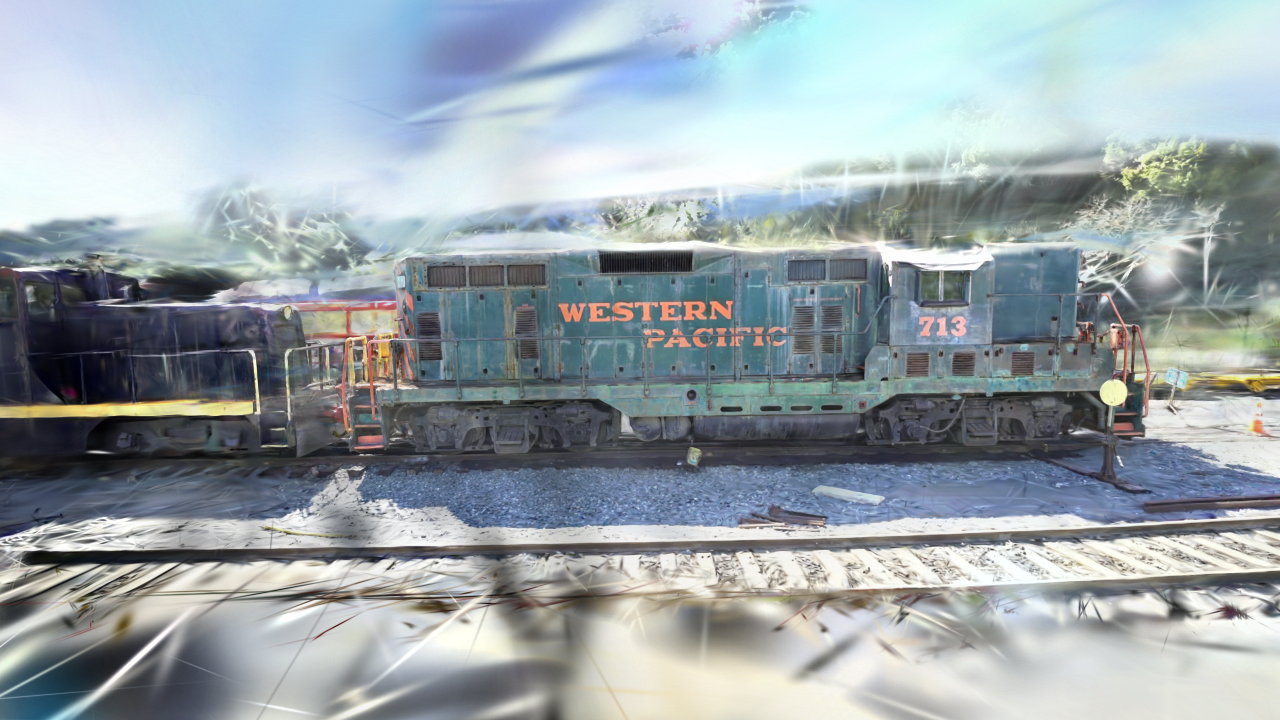
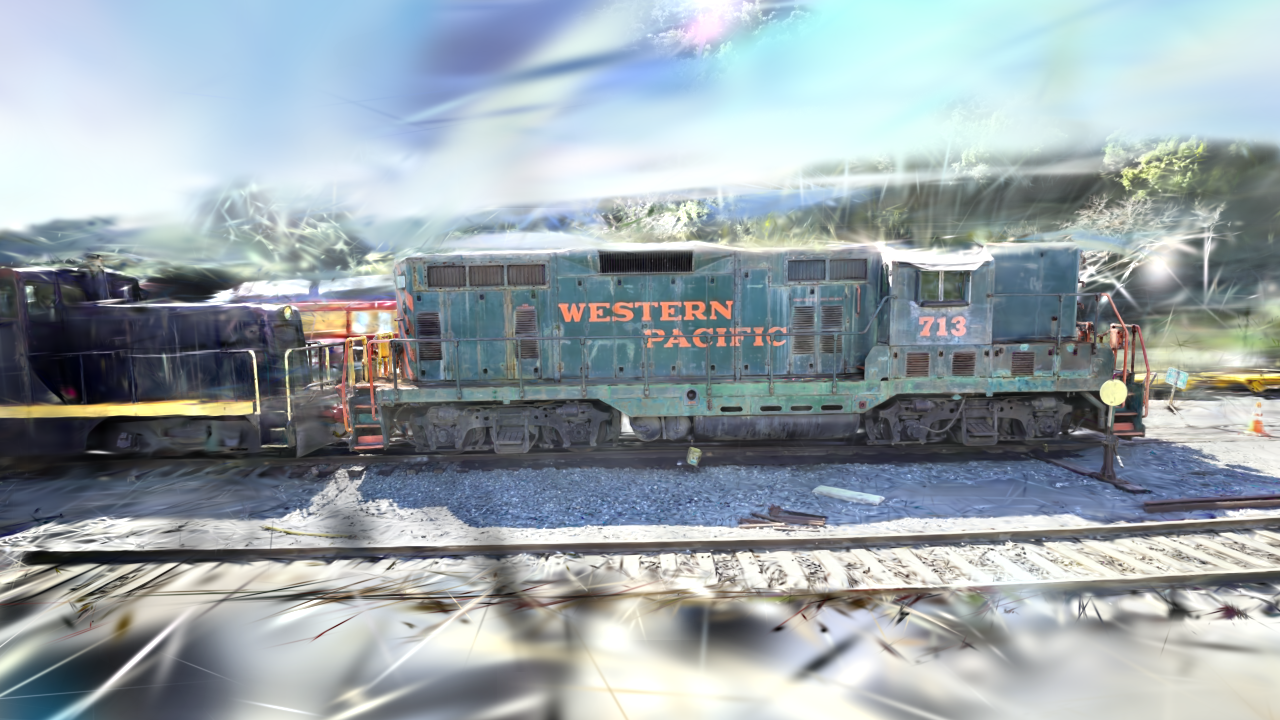
Record what tile binning measured and close M4's list

diff --git a/README.md b/README.md
@@ -153,9 +153,10 @@ on disk, 581.6 MiB of GPU attributes and 96.9 MiB of sort scratch across both fr
   larger scene introduced. Both the parity figure and the frame times have to be read with that in
   mind, and both are given below with and without a clamp applied as a probe.
 
-Current limits: one draw call per cloud with no visibility culling or tiled binning, and 240 bytes
+Current limits: 240 bytes
 of attributes per splat (degree-3 SH is 192 of them), which is 240 MB for a million-splat scene --
-of which the sort reads only the 12 bytes of position. The sort itself adds 39.2 MiB of scratch at
+of which the sort reads only the 12 bytes of position. Tile binning adds four more arrays over the
+(tile, splat) pairs, 8 per splat, which is another 264 MiB at 1.03M splats across both frames. The sort itself adds 39.2 MiB of scratch at
 1.03M splats and 96.9 MiB at `truck`'s 2.54M, across both frames in flight. Both are linear in the
 splat count, so the 6.13M-splat `bicycle` scene would want about 1.4 GiB of attributes and 233 MiB
 of scratch.
@@ -250,6 +251,8 @@ measured frames:
 | INRIA `train`, 1.03M splats, GPU sort | 1920x1080 | Vulkan | 18.707 ms | 18.677 ms |
 | INRIA `train`, 1.03M splats, + cull pass | 1920x1080 | D3D12 | 14.866 ms | 14.846 ms |
 | INRIA `train`, 1.03M splats, + cull pass | 1920x1080 | Vulkan | 12.172 ms | 12.041 ms |
+| INRIA `train`, 1.03M splats, + tile raster | 1920x1080 | D3D12 | 9.920 ms | 9.900 ms |
+| INRIA `train`, 1.03M splats, + tile raster | 1920x1080 | Vulkan | 10.435 ms | 10.408 ms |
 | INRIA `truck`, 2.54M splats, GPU sort | 1920x1080 | D3D12 | 14.718 ms | 14.698 ms |
 | INRIA `truck`, 2.54M splats, GPU sort | 1920x1080 | Vulkan | 14.045 ms | 14.018 ms |
 
@@ -334,9 +337,31 @@ which is within run-to-run noise, and the pinned WARP draws nothing at all throu
 — reproduced with the argument buffer filled by the CPU, so it is not the compute write. Paying a
 CI blind spot for no measured gain was not worth it.
 
-What is left in the frame is still the draw. Every number here is one undivided draw call with no
-tiled binning, and the fact that fill, not splat count, sets the frame is the argument for doing
-it.
+**What the tile rasteriser changed.** A back-to-front blend cannot stop early: the quad pass had to
+blend every splat covering a pixel, however opaque the pixel had already become. The splats are now
+binned into 16x16 tiles and one compute group owns a tile, walking it from the nearest splat
+outwards and stopping once the transmittance can no longer change the pixel. On `train` at 1080p
+that is 14.846 ms to 9.900 on D3D12 and 12.041 to 10.408 on Vulkan — and 22.455 to 9.900 against
+the version before either change.
+
+The binning avoids a second sort key. Pairs are generated by walking the splats in depth order, so
+they start out sorted by depth, and the tile sort is the same stable radix sort over the tile id
+alone, which leaves each tile's slice in depth order. Two passes cover a 16-bit tile id. The
+rasteriser walks a slice backwards to composite near to far.
+
+Capacity for the pairs is fixed when a cloud is uploaded, at eight per splat. The frame reads the
+scan's grand total back and reports a view that needed more instead of dropping splats silently:
+`train` at 1080p peaks at 4.55 million pairs against the 8.2 million it holds. Raising the capacity
+to sixteen produces a byte-identical image and costs 2.7 ms, which is what fixes it at eight.
+
+This is also where the stored WARP reference moved. The quad pass blended into the 8-bit render
+target once per splat, so hundreds of overlapping splats accumulated hundreds of roundings; the
+rasteriser accumulates in floating point and writes once. The reference was retaken, and the change
+it records is 2787 of 230400 pixels moving by at most 9 levels. Cross-backend agreement improved at
+the same time, from max channel delta 2 over 0.49% of pixels to delta 1 over 0.046%.
+
+What is left is the shape of the work rather than its amount: the rasteriser is one kernel with no
+per-pass timing, so which of binning, sorting or shading now dominates is still not separated.
 
 A real profiler is still outstanding.
 

diff --git a/docs/ROADMAP.md b/docs/ROADMAP.md
@@ -79,9 +79,9 @@ back to front, a GPU depth sort, a procedural cloud for development and tests, a
 buffer with the mesh pass, both backends drawing it from the same shaders, `.ply` dataset loading,
 and degree-3 spherical-harmonic colour evaluated per splat from the view direction.
 
-Remaining: visibility culling and tile-based binning. Both are deliberately last: they cannot be
-honestly measured against 20k procedural splats, and need the million-splat workload a real dataset
-provides.
+Visibility culling and tile-based binning were left until last, because neither can be honestly
+measured against 20k procedural splats; both are now done against the million-splat workload a real
+dataset provides, and what each one bought is recorded further down.
 
 The `.ply` loader is covered by synthetic files the test suite writes itself, which assert the
 conversions numerically — log-scales exponentiated, the quaternion normalised and read as `wxyz`,
@@ -143,7 +143,30 @@ spread, and the pinned WARP draws nothing through `ExecuteIndirect` — reproduc
 buffer filled by the CPU, so the compute write was not the cause. A blind spot in the only
 GPU-independent test path was not worth paying for no measured gain.
 
-What remains in the frame is the draw itself: one undivided draw call and no tiled binning.
+Tile-based binning has since replaced that draw, which closes M4's list. The splats are binned into
+16x16 tiles, and a compute group per tile composites its own pixels from the nearest splat outwards,
+stopping when the transmittance can no longer change them — the early exit a back-to-front blend
+cannot have. `train` at 1080p went from 14.846 ms of GPU to 9.900 on D3D12 and 12.041 to 10.408 on
+Vulkan; against the quad pass before culling, 22.455 to 9.900.
+
+The binning needs no second sort key. Pairs are generated by walking the splats in depth order, so
+they arrive sorted by depth, and sorting them by tile id with the same stable radix sort leaves
+every tile's slice in that order. Two passes cover a 16-bit tile id, against the eight a packed
+(tile, depth) key would need.
+
+Pair capacity is fixed at upload, eight per splat, and the grand total is read back so a view
+needing more is reported rather than silently missing splats. `train` at 1080p peaks at 4.55 million
+against 8.2 million; at sixteen per splat the image is byte-identical and the frame costs 2.7 ms
+more.
+
+The stored WARP reference moved with it. The quad pass blended into the 8-bit target once per splat,
+so overlapping splats accumulated a rounding each; the rasteriser accumulates in floating point and
+writes once. Retaking the reference records 2787 of 230400 pixels moving by at most 9 levels, and
+cross-backend agreement improved from max channel delta 2 over 0.49% of pixels to delta 1 over
+0.046%.
+
+What is still missing is per-pass timing: the splat path is now seven compute dispatches and a
+rasteriser, and nothing here separates their costs.
 
 A second published scene has been through the same path to see how it scales: INRIA's `truck`,
 2,541,226 splats at SH degree 3, 581.6 MiB of GPU attributes and 96.9 MiB of sort scratch, zero
